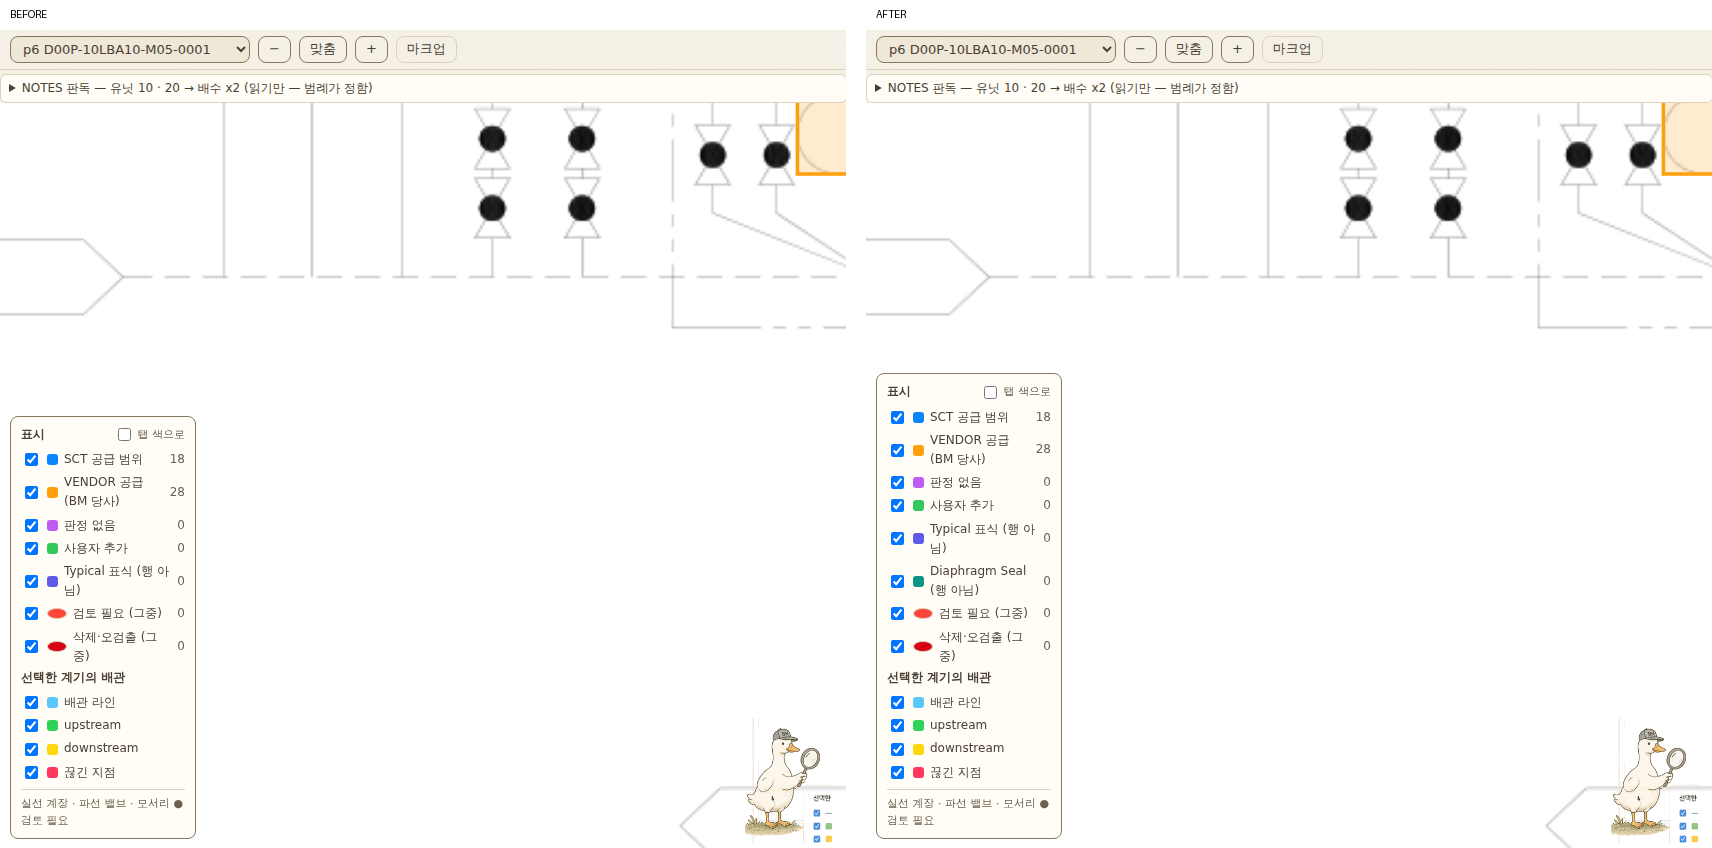
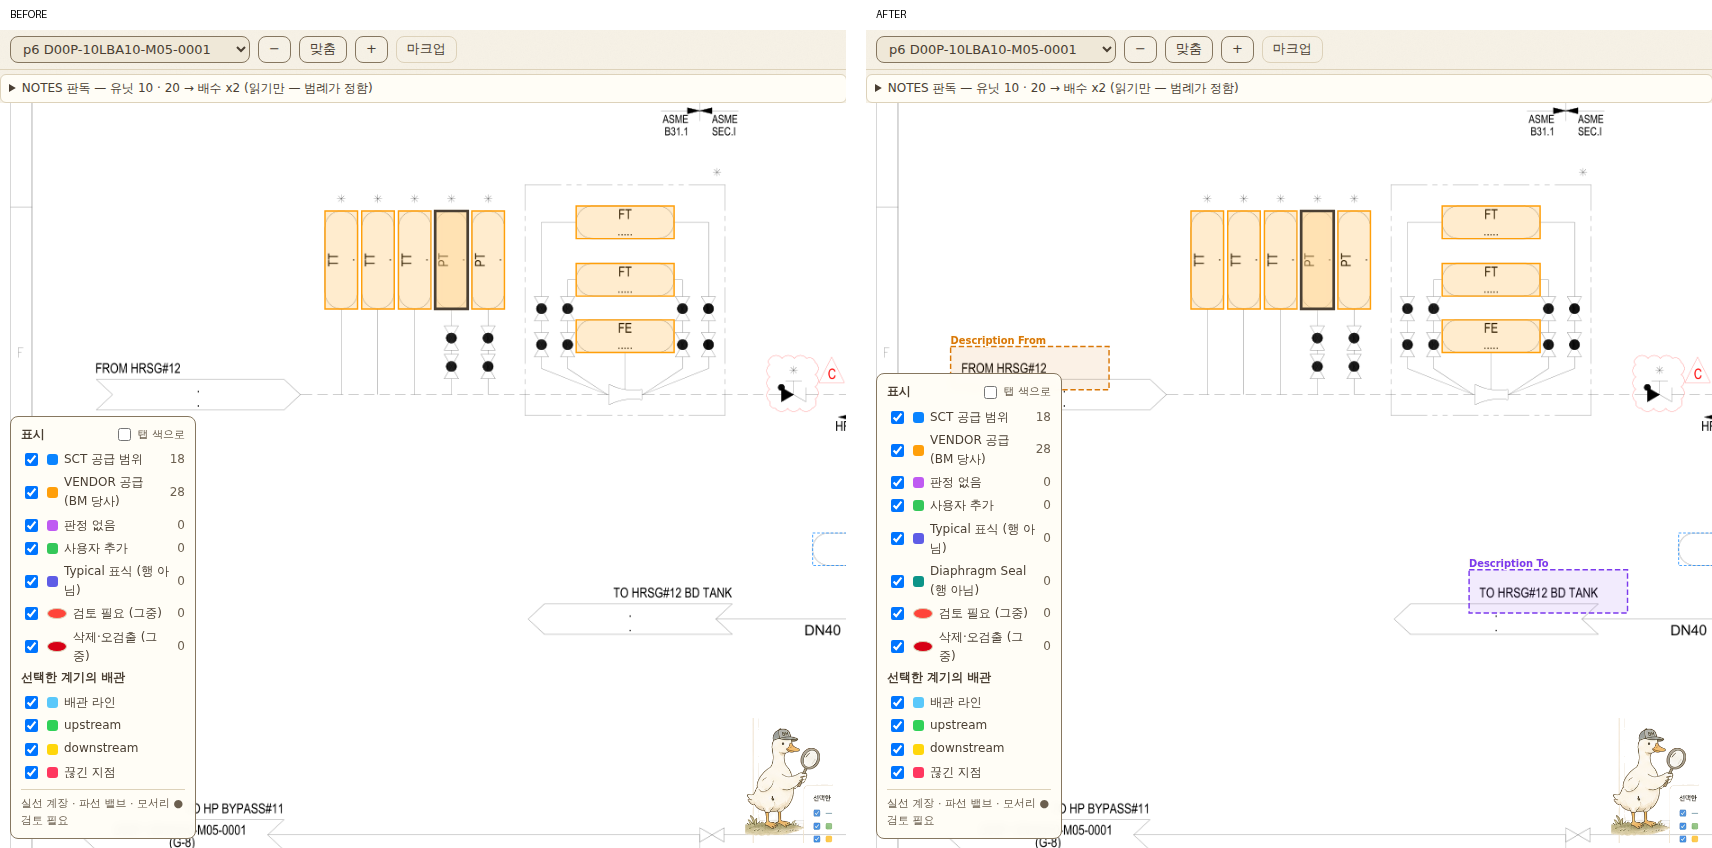
hotfix25 screenshots: frame both From/To ranges in one view
Claude-Session: https://claude.ai/code/session_01DB7McHNyNWu23TYcFD71ke

diff --git a/spike/ui_shots_hotfix25.py b/spike/ui_shots_hotfix25.py
@@ -159,6 +159,9 @@ def shoot(tag: str, data: Path):
                 note(f"[{tag}] 도면의 From/To 범위 상자: {ftb}")
                 pg.evaluate("() => { const l = document.querySelector('#ovlegend'); if (l) l.style.visibility = ''; }")
                 pick(ft_row["key"], [80, 520, 570, 730])
+                # `select` 가 확대를 SYMBOL_ZOOM 으로 올려 두 범위(가로 480pt)가 한 창에 안 든다 — 0.9 로 맞춘다
+                pg.evaluate("() => zoomBy(0.9 / S.zoom)"); pg.wait_for_timeout(300)
+                centre_on([80, 520, 570, 730]); pg.wait_for_timeout(500)
                 pg.screenshot(path=str(OUT / f"{tag}_3_fromto_sheet.png"), clip=stage_clip())
                 # 다시 열어도 남는가
                 pg.reload(); pg.wait_for_timeout(2500)
@@ -179,6 +182,8 @@ def shoot(tag: str, data: Path):
             else:
                 note(f"[{tag}] From/To 마크업 없음 (옛 화면)")
                 pick(ft_row["key"], [80, 520, 570, 730])
+                pg.evaluate("() => zoomBy(0.9 / S.zoom)"); pg.wait_for_timeout(300)
+                centre_on([80, 520, 570, 730]); pg.wait_for_timeout(500)
                 pg.screenshot(path=str(OUT / f"{tag}_3_fromto_sheet.png"), clip=stage_clip())
             note(f"[{tag}] 페이지 오류: " + (" | ".join(errs) if errs else "없음"))
             br.close()
